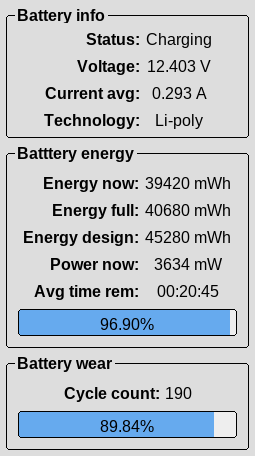
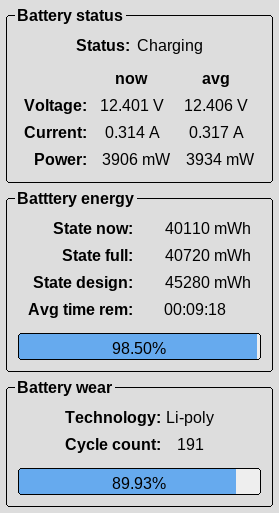
Adjust the layout a bit.

Changed region(s): [[0.0, 0.0, 0.9882, 1.0]]

diff --git a/gpbatinfo.c b/gpbatinfo.c
@@ -13,8 +13,12 @@ static struct ps *ps;
 
 struct bat {
 	gp_widget *status;
-	gp_widget *voltage;
+	gp_widget *voltage_now;
+	gp_widget *voltage_avg;
 	gp_widget *current_avg;
+	gp_widget *current_now;
+	gp_widget *power_avg;
+	gp_widget *power_now;
 	gp_widget *technology;
 	gp_widget *cycle_count;
 
@@ -22,7 +26,6 @@ struct bat {
 	gp_widget *state_full;
 	gp_widget *state_design;
 	gp_widget *energy_pbar;
-	gp_widget *power_now;
 	gp_widget *time_rem;
 } bat;
 
@@ -45,12 +48,20 @@ static void update(void)
 	if (bat.status)
 		gp_widget_label_set(bat.status, ps_bat_status_name(ps->bat.status));
 
-	if (bat.voltage)
-		gp_widget_label_printf(bat.voltage, "%u.%03u V", ps->bat.voltage_now/1000000, (ps->bat.voltage_now%1000000)/1000);
+	if (bat.voltage_now)
+		gp_widget_label_printf(bat.voltage_now, "%u.%03u V", ps->bat.voltage_now/1000000, (ps->bat.voltage_now%1000000)/1000);
+
+	if (bat.voltage_avg)
+		gp_widget_label_printf(bat.voltage_avg, "%u.%03u V", ps->bat.voltage_avg/1000000, (ps->bat.voltage_avg%1000000)/1000);
 
 	if (bat.current_avg) {
 		uint32_t current_avg = ps_bat_current_avg(ps);
 		gp_widget_label_printf(bat.current_avg, "%u.%03u A", current_avg/1000000, (current_avg%1000000)/1000);
+	}
+
+	if (bat.current_now) {
+		uint32_t current_now = ps_bat_current_now(ps);
+		gp_widget_label_printf(bat.current_now, "%u.%03u A", current_now/1000000, (current_now%1000000)/1000);
 	}
 
 	if (bat.state_now)
@@ -65,6 +76,11 @@ static void update(void)
 	if (bat.power_now) {
 		uint32_t power_now = ps_bat_power_now(ps);
 		gp_widget_label_printf(bat.power_now, "%u mW", power_now/1000);
+	}
+
+	if (bat.power_avg) {
+		uint32_t power_avg = ps_bat_power_avg(ps);
+		gp_widget_label_printf(bat.power_avg, "%u mW", power_avg/1000);
 	}
 
 	if (bat.energy_pbar) {
@@ -105,15 +121,18 @@ int main(int argc, char *argv[])
 		gp_dialog_msg_run(GP_DIALOG_MSG_ERR, "Error", "Battery not found!");
 
 	bat.status = gp_widget_by_uid(uids, "status", GP_WIDGET_LABEL);
-	bat.voltage = gp_widget_by_uid(uids, "voltage", GP_WIDGET_LABEL);
-	bat.current_avg = gp_widget_by_uid(uids, "current_avg", GP_WIDGET_LABEL);
 	bat.technology = gp_widget_by_uid(uids, "technology", GP_WIDGET_LABEL);
 	bat.cycle_count = gp_widget_by_uid(uids, "cycle_count", GP_WIDGET_LABEL);
 
 	bat.state_now = gp_widget_by_uid(uids, "state_now", GP_WIDGET_LABEL);
 	bat.state_full = gp_widget_by_uid(uids, "state_full", GP_WIDGET_LABEL);
 	bat.state_design = gp_widget_by_uid(uids, "state_design", GP_WIDGET_LABEL);
+	bat.voltage_now = gp_widget_by_uid(uids, "voltage_now", GP_WIDGET_LABEL);
+	bat.voltage_avg = gp_widget_by_uid(uids, "voltage_avg", GP_WIDGET_LABEL);
+	bat.current_avg = gp_widget_by_uid(uids, "current_avg", GP_WIDGET_LABEL);
+	bat.current_now = gp_widget_by_uid(uids, "current_now", GP_WIDGET_LABEL);
 	bat.power_now = gp_widget_by_uid(uids, "power_now", GP_WIDGET_LABEL);
+	bat.power_avg = gp_widget_by_uid(uids, "power_avg", GP_WIDGET_LABEL);
 	bat.energy_pbar = gp_widget_by_uid(uids, "energy_pbar", GP_WIDGET_PROGRESSBAR);
 	bat.time_rem = gp_widget_by_uid(uids, "time_rem", GP_WIDGET_LABEL);
 
@@ -129,8 +148,6 @@ int main(int argc, char *argv[])
 		gp_widget_pbar_set_max(wear_pbar, ps->bat.state_design);
 		gp_widget_pbar_set(wear_pbar, ps->bat.state_full);
 	}
-
-	update();
 
 	gp_htable_free(uids);
 
